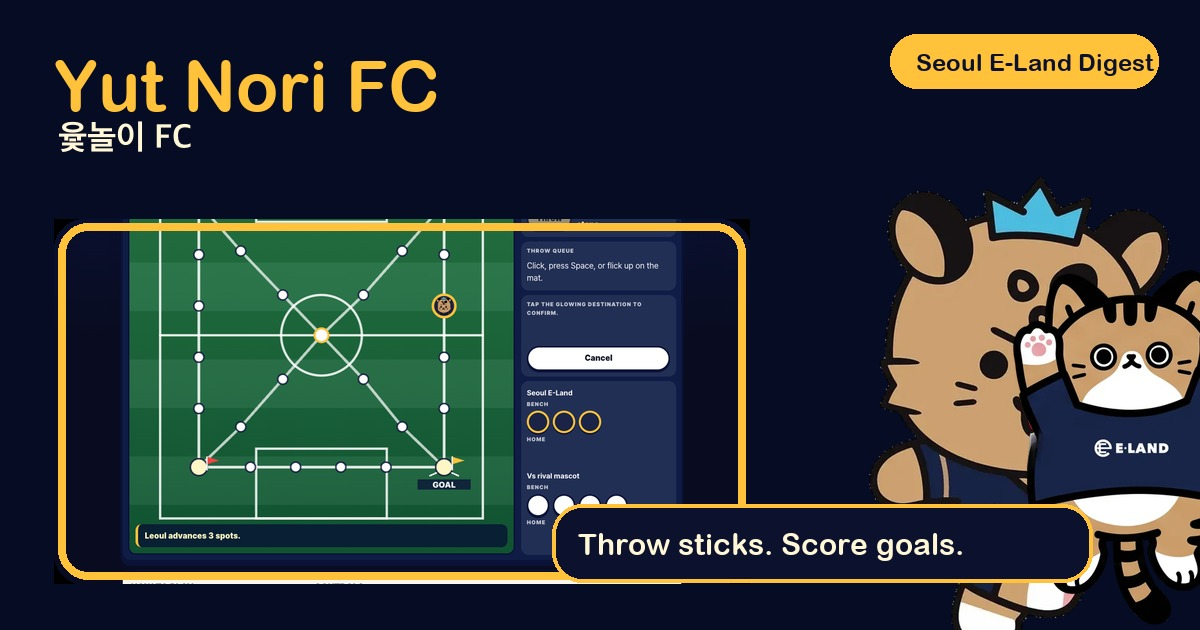
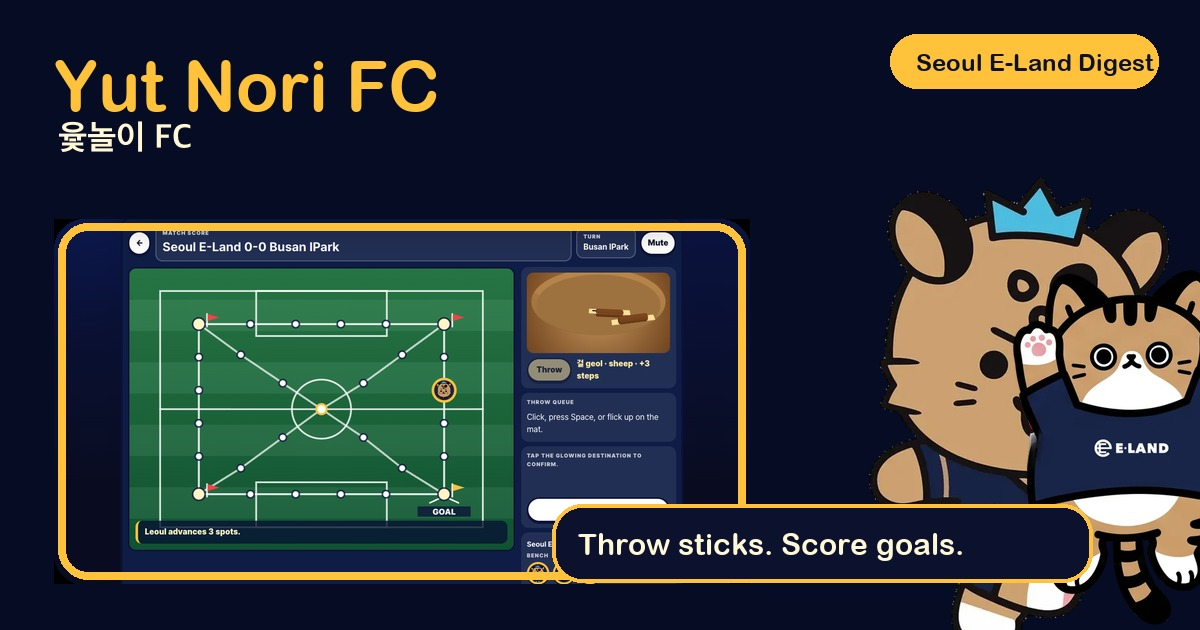
Tighten Yut Nori FC game polish
Copilot-Session: 30f9cc71-a23c-44b1-848c-ede5d2d6a253

Changed region(s): [[0.0308, 0.3317, 0.5858, 0.9349]]

diff --git a/site/src/yut/main.ts b/site/src/yut/main.ts
@@ -202,6 +202,7 @@ export function mountYutNori(root: HTMLElement): void {
     root.dataset.mode = name;
     for (const el of qa("[data-yut-screen]")) el.hidden = el.dataset.yutScreen !== name;
     document.body.classList.toggle("yut-lock-scroll", coarse && name === "play");
+    document.documentElement.classList.toggle("yut-lock-scroll", coarse && name === "play");
     if (name === "play") {
       ensureThrower();
       startLoop();
@@ -280,6 +281,8 @@ export function mountYutNori(root: HTMLElement): void {
     q("[data-yut-turn]").textContent = labelTeam(state.turn);
     q("[data-yut-message]").textContent = message;
     q("[data-yut-result-card]").textContent = resultCard;
+    const rivalLabel = mode === "pass" ? t.passAndPlayTeam[1] : `${OPPONENTS[rival].name} · ${OPPONENTS[rival].club}`;
+    q('[data-yut-team-name="1"]').textContent = rivalLabel;
     q<HTMLButtonElement>("[data-yut-throw]").disabled = busy || !state.mustThrow || state.winner !== null || (mode === "rival" && state.turn === 1);
     q<HTMLButtonElement>("[data-yut-mute]").textContent = audio.muted ? t.unmute : t.mute;
     renderChips();
@@ -377,10 +380,11 @@ export function mountYutNori(root: HTMLElement): void {
       drawCssToken(node, token, team, 1);
       bench.append(node);
     }
-    for (let i = 0; i < state.teams[team].home; i++) {
+    const homeCount = state.teams[team].home;
+    if (homeCount > 0) {
       const node = document.createElement("span");
       node.className = "yut-row-token yut-row-token-home";
-      drawCssToken(node, tokenFor(team, i), team, 1);
+      drawCssToken(node, tokenFor(team, 0), team, homeCount);
       home.append(node);
     }
   };
@@ -390,9 +394,11 @@ export function mountYutNori(root: HTMLElement): void {
     const color = team === 0 ? SEOUL : rivalColor;
     (node as HTMLElement).style.setProperty("--token", color);
     (node as HTMLElement).style.setProperty("--rim", team === 0 ? GOLD : "#ffffff");
+    (node as HTMLElement).style.backgroundImage = `url("${token.src}")`;
+    (node as HTMLElement).style.backgroundSize = token.crop === "front-third" ? "300% 100%" : "185% 185%";
+    (node as HTMLElement).style.backgroundPosition = token.crop === "front-third" ? "right center" : "center";
     node.innerHTML = `<img alt="" width="44" height="44"><i>${count > 1 ? `×${count}` : ""}</i>`;
     node.querySelector("img")!.src = token.src;
-    if (token.crop === "front-third") node.querySelector("img")!.classList.add("yut-front-crop");
   };
 
   const render = () => {
@@ -522,6 +528,7 @@ export function mountYutNori(root: HTMLElement): void {
     ctx.shadowColor = "rgba(255,194,58,.5)";
     ctx.shadowBlur = 15;
     const start = preview.from === "bench" ? stationPoint("A", w, h) : stationPoint(preview.from, w, h);
+    ctx.setLineDash([1, 15]);
     ctx.beginPath();
     ctx.moveTo(start[0], start[1]);
     for (const st of preview.path) {
@@ -529,10 +536,20 @@ export function mountYutNori(root: HTMLElement): void {
       ctx.lineTo(x, y);
     }
     ctx.stroke();
+    ctx.setLineDash([]);
     ctx.restore();
     if (preview.to !== "home") {
       const [x, y] = stationPoint(preview.to, w, h);
       const pulse = 1 + Math.sin(performance.now() / 130) * 0.08;
+      ctx.save();
+      ctx.strokeStyle = GOLD;
+      ctx.lineWidth = 5;
+      ctx.shadowColor = "rgba(255,194,58,.75)";
+      ctx.shadowBlur = 12;
+      ctx.beginPath();
+      ctx.arc(x, y, 33 * pulse, 0, Math.PI * 2);
+      ctx.stroke();
+      ctx.restore();
       ctx.save();
       ctx.globalAlpha = 0.72;
       drawToken(tokenFor(state.turn, 0), state.turn, x, y, 1, 23 * pulse, true);
@@ -869,6 +886,7 @@ export function mountYutNori(root: HTMLElement): void {
     effects = [];
     confetti = [];
     screen("play");
+    if (!coarse) root.scrollIntoView({ block: "start", behavior: "smooth" });
     audio.unlock();
     audio.startMusic();
     render();

diff --git a/site/src/yut/throwScene.ts b/site/src/yut/throwScene.ts
@@ -22,10 +22,10 @@ export class YutThrowScene {
   private webgl = false;
   private ctx: CanvasRenderingContext2D | null = null;
   private poses: StickPose[] = [
-    { x: -0.9, y: 0, rot: -0.18, flat: false, marked: true },
-    { x: -0.3, y: 0.05, rot: 0.12, flat: false, marked: false },
-    { x: 0.35, y: -0.02, rot: -0.06, flat: false, marked: false },
-    { x: 0.95, y: 0.05, rot: 0.18, flat: false, marked: false },
+    { x: -1.45, y: 0, rot: -0.1, flat: false, marked: true },
+    { x: -0.48, y: 0.03, rot: 0.08, flat: false, marked: false },
+    { x: 0.5, y: -0.02, rot: -0.06, flat: false, marked: false },
+    { x: 1.48, y: 0.04, rot: 0.11, flat: false, marked: false },
   ];
 
   constructor(private readonly canvas: HTMLCanvasElement) {
@@ -97,7 +97,7 @@ export class YutThrowScene {
         const t = Math.min(1, (performance.now() - start) / 1160);
         const ease = 1 - (1 - t) ** 3;
         this.poses = final.map((flat, i) => ({
-          x: (i - 1.5) * 0.72 + Math.sin(t * 9 + i) * 0.28 * (1 - ease),
+          x: (i - 1.5) * 0.98 + Math.sin(t * 9 + i) * 0.28 * (1 - ease),
           y: Math.sin(Math.PI * t) * (1.05 + i * 0.08) + Math.sin(t * 18 + i) * 0.05 * (1 - t),
           rot: -0.18 + i * 0.12 + Math.sin(t * 10 + i) * 0.75 * (1 - ease),
           flat,
@@ -119,8 +119,8 @@ export class YutThrowScene {
   private initThree(THREE: Three): void {
     this.renderer = new THREE.WebGLRenderer({ canvas: this.canvas, antialias: true, alpha: true });
     this.scene = new THREE.Scene();
-    this.camera = new THREE.PerspectiveCamera(34, 1, 0.1, 100);
-    this.camera.position.set(0, 2.55, 3.85);
+    this.camera = new THREE.PerspectiveCamera(38, 1, 0.1, 100);
+    this.camera.position.set(0, 4.25, 3.45);
     this.camera.lookAt(0, 0, 0);
     this.scene.add(new THREE.HemisphereLight(0xfff3d7, 0x4a2b10, 2.4));
     const key = new THREE.DirectionalLight(0xffffff, 1.35);
@@ -141,6 +141,7 @@ export class YutThrowScene {
     const bark = new THREE.MeshToonMaterial({ color: i === 0 ? 0x8b552c : 0x73431f });
     const flat = new THREE.MeshToonMaterial({ color: 0xf6d69f });
     const mark = new THREE.MeshBasicMaterial({ color: 0xcc1f2f });
+    const eland = new THREE.MeshBasicMaterial({ color: 0x1b2446 });
     const body = new THREE.Mesh(new THREE.CapsuleGeometry(0.16, 1.85, 8, 14), bark);
     body.scale.set(1.25, 0.58, 1);
     body.rotation.z = Math.PI / 2;
@@ -156,7 +157,7 @@ export class YutThrowScene {
         g.add(x);
       }
     } else {
-      const badge = new THREE.Mesh(new THREE.BoxGeometry(0.28, 0.034, 0.05), mark);
+      const badge = new THREE.Mesh(new THREE.BoxGeometry(0.28, 0.034, 0.05), eland);
       badge.position.set(-0.62, -0.112, 0);
       g.add(badge);
     }
@@ -169,7 +170,7 @@ export class YutThrowScene {
     for (let i = 0; i < this.sticks.length; i++) {
       const pose = this.poses[i];
       const stick = this.sticks[i];
-      stick.position.set(pose.x, 0.18 + pose.y, -0.15 + Math.sin(i) * 0.18);
+      stick.position.set(pose.x, 0.18 + pose.y, (i - 1.5) * 0.32);
       stick.rotation.set((pose.flat ? Math.PI : 0) * ease + (1 - ease) * (5.5 + i), pose.rot * 0.2, pose.rot);
     }
     this.renderer.render(this.scene, this.camera);
